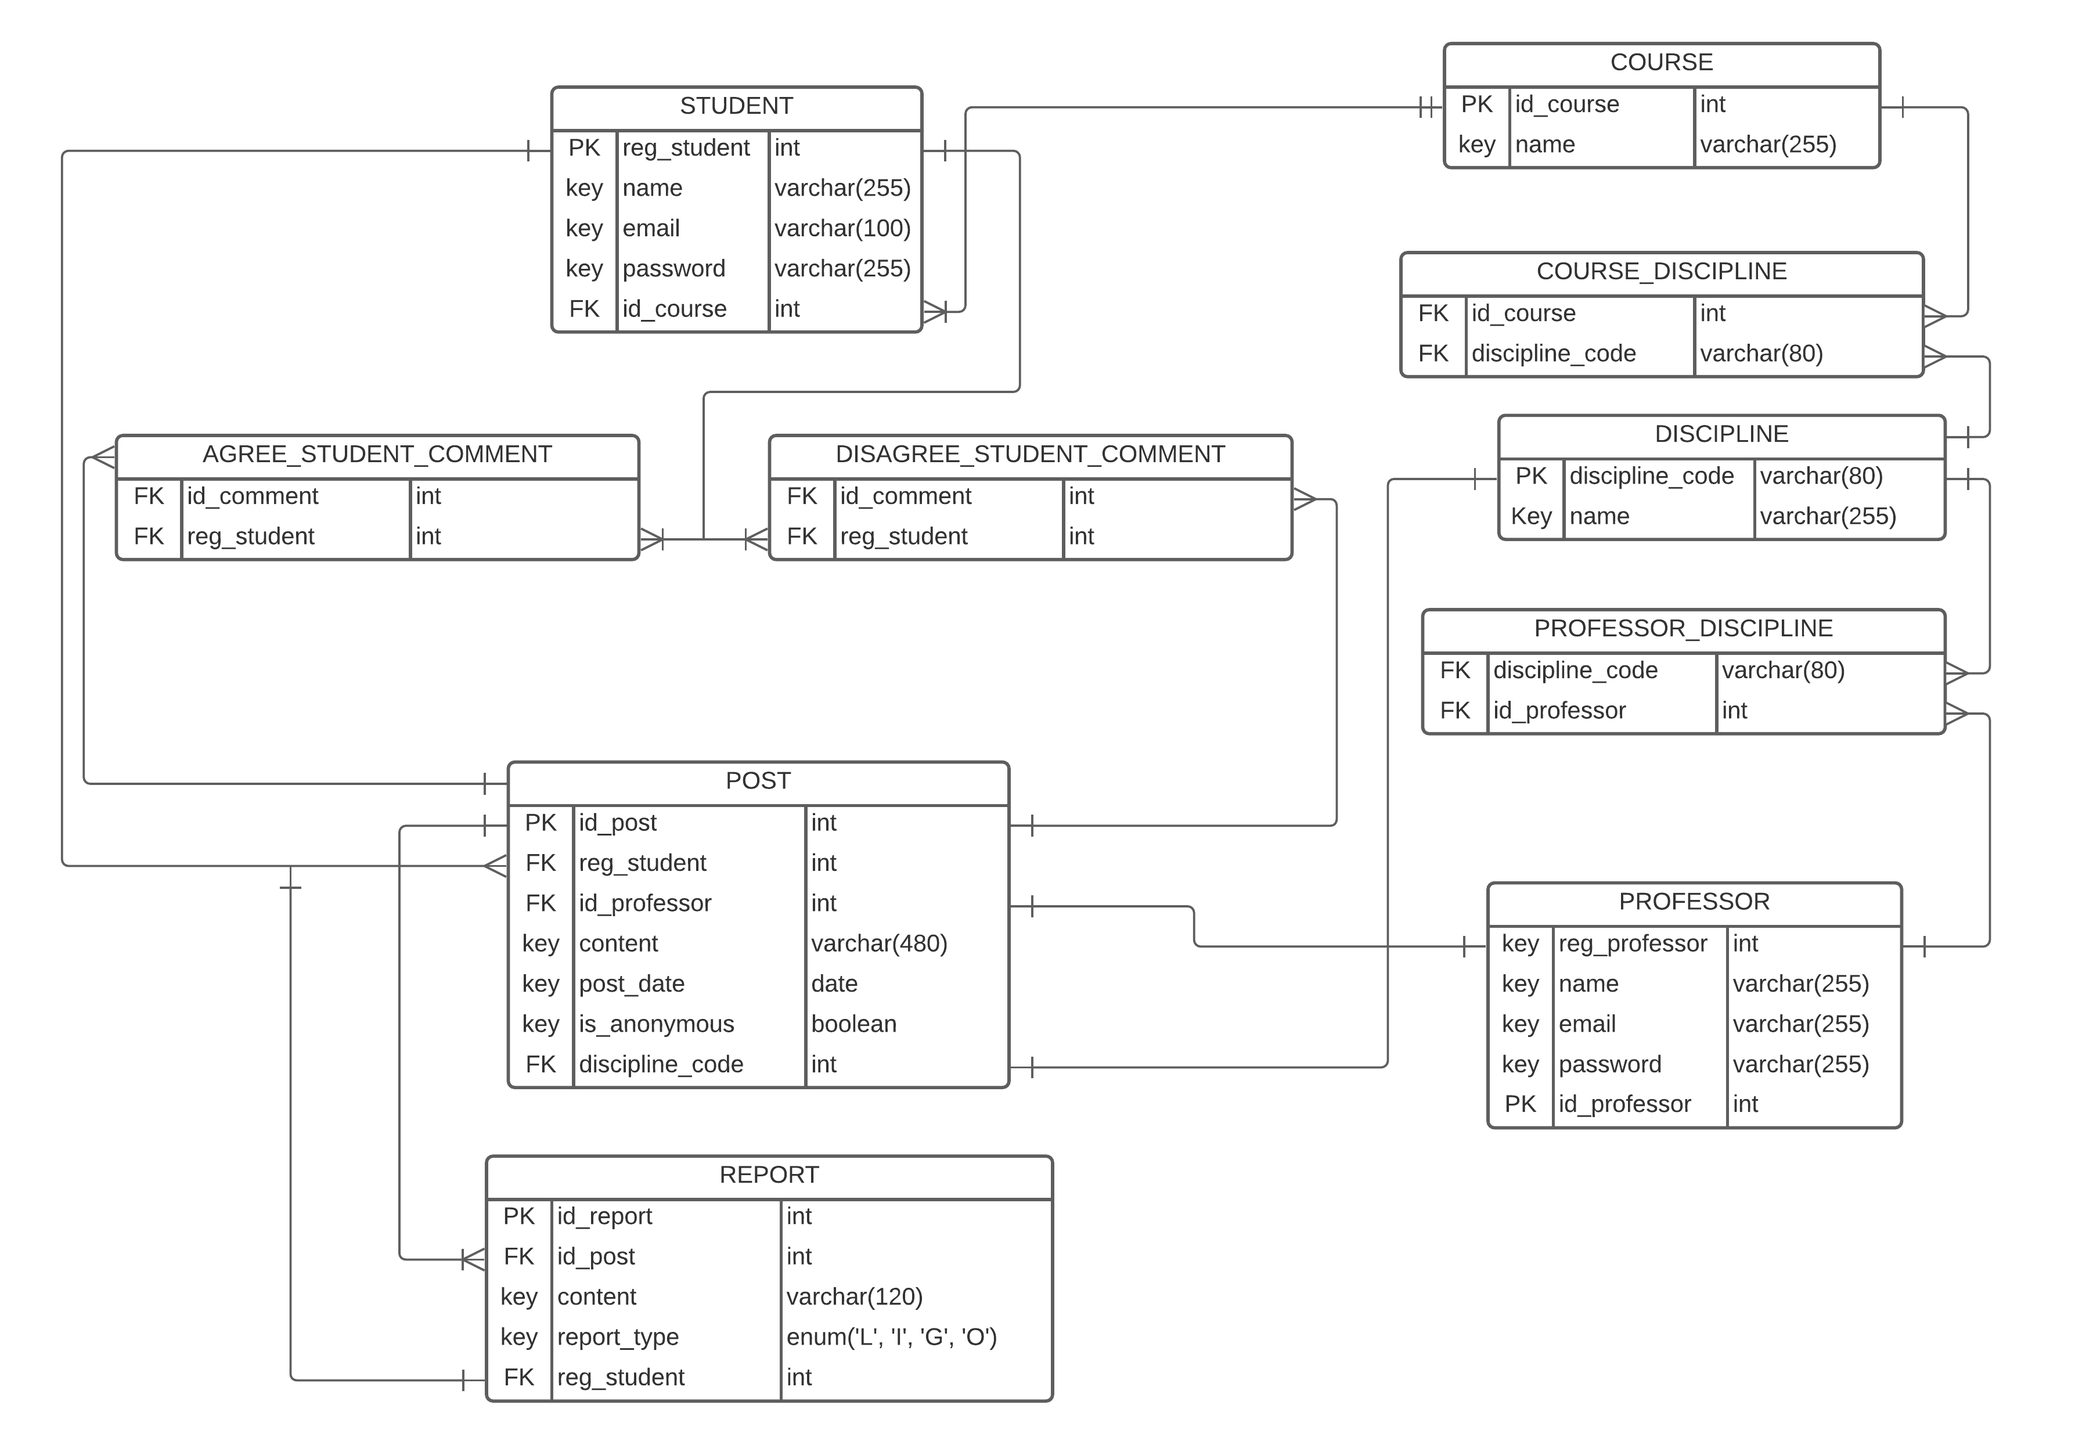
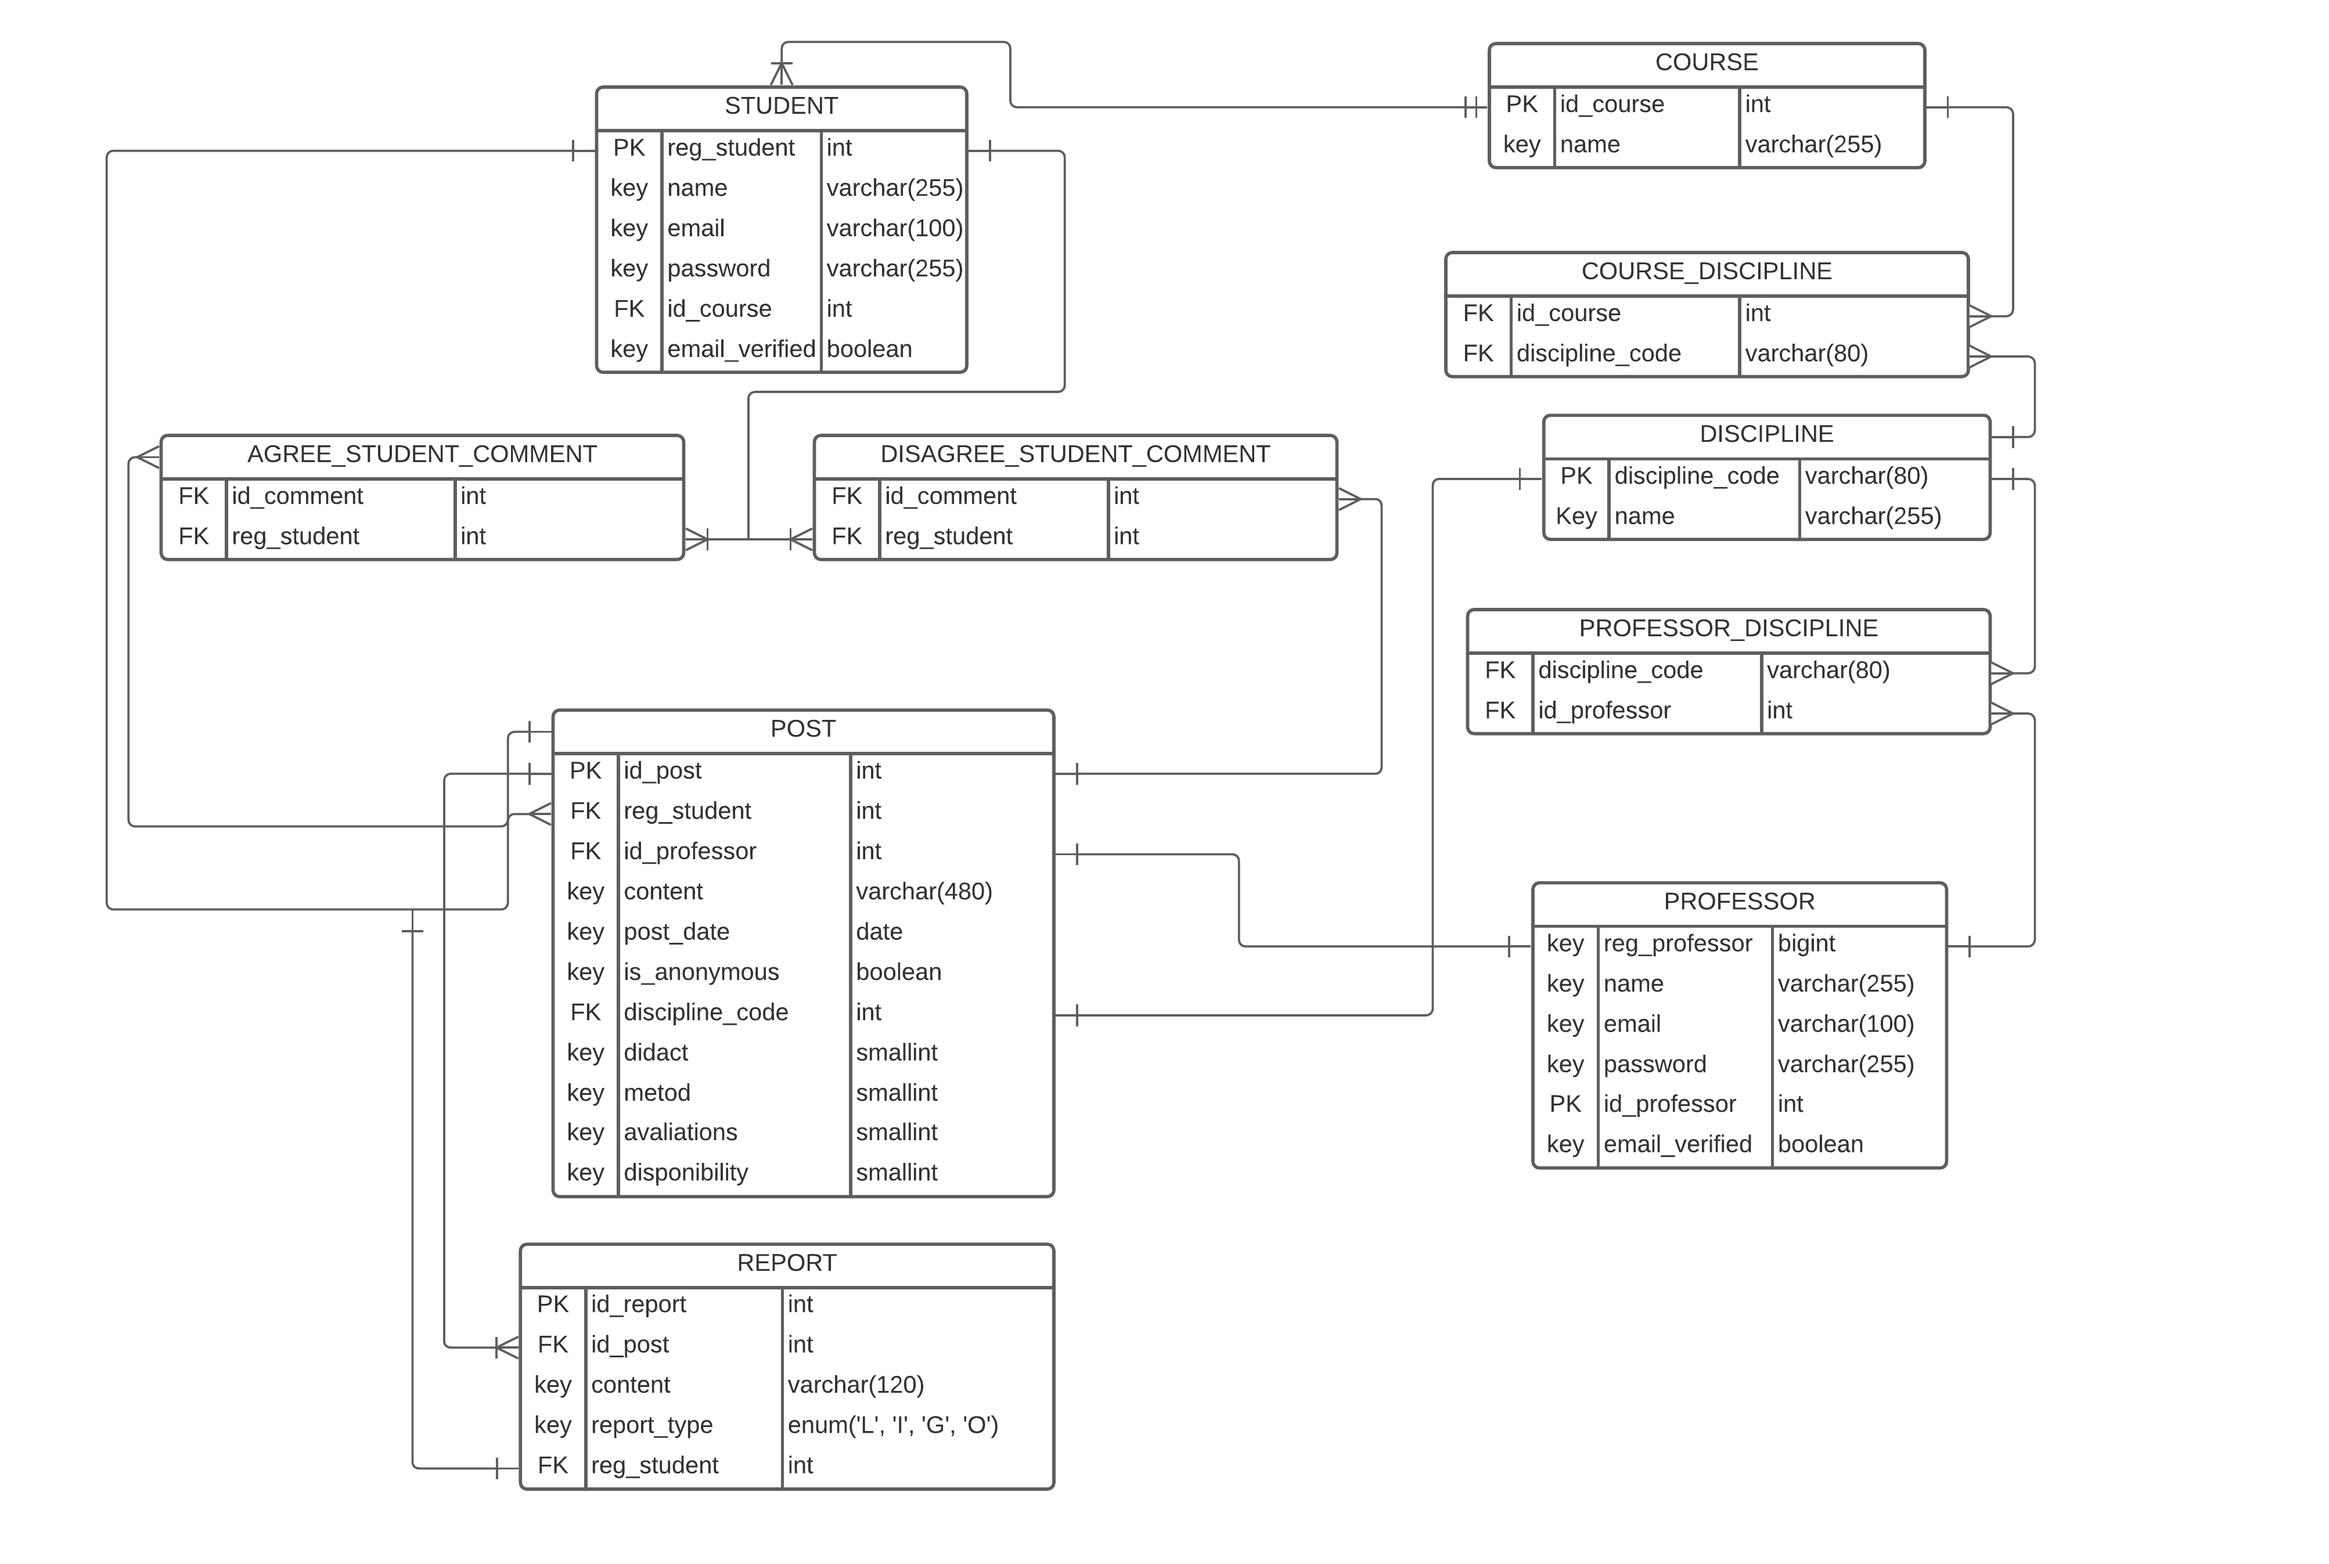
(#218) atualizando atributos das entidades

diff --git a/docs/documentacao/documento-de-arquitetura.md b/docs/documentacao/documento-de-arquitetura.md
@@ -23,6 +23,7 @@ Data|Versão|Descrição|Autor
 18/05|1.9|Adição da organização das pastas do back-end|Thiago|
 18/05|2.0|Adição da relação do Banco de dados e do Flask|Thiago|
 18/05|2.1|Atualicação dos atributos das entidades|Thiago|
+
 ## 1. <a name="1">Introdução</a>
 
 ### 1.1 <a name="1_1">Finalidade</a>
@@ -116,7 +117,7 @@ href="https://insights.stackoverflow.com/survey/2020#technology">o favorito do m
 ### 4.3 <a name="4_3">Descrição dos Casos de Uso</a>
 |Caso de Uso|Descrição|
 |:-|:-|
-|US01 - Pontuar Professor| Dar uma nota ao professor avaliado. |
+|US01 - Pontuar Professor| Dar uma nota ao professor avaliado.|
 |US02 - Fazer Comentário| Dar um feedback de determinado docente.|
 |US03 - Avaliar outros Comentários| Concordar ou Discordar dos feedbacks de um professor.|
 |US04 - Avaliar Professor| Fazer um feedback geral de um docente.|
@@ -191,7 +192,7 @@ href="https://insights.stackoverflow.com/survey/2020#technology">o favorito do m
 * Um **Professor** tem uma **matrícula**, **identificação**, **nome**, **email**, **senha** e um booleano que guarda se o **e-mail foi confirmado**.
 * Um **Curso** tem um **nome**.
 * Uma **Disciplina** tem um **nome** e um **código**.
-* Uma **Avaliação**, para ser cadastrada, tem uma **identificação**, **conteúdo**, **data de postagem**, se é **anônima** ou não e uma **nota** sobre o professor.
+* Uma **Avaliação**, para ser cadastrada, tem uma **identificação**, **conteúdo**, **data de postagem**, se é **anônima** ou não e os **feedbacks** sobre o professor.
 * Uma **Denúncia** tem uma **identificação**, **conteúdo** e um **tipo**, que pode ser uma denúncia grave, incoerente, ofensiva e outras.
 
 #### 6.1.3 <a name="6_1_3">Relacionamentos</a>
